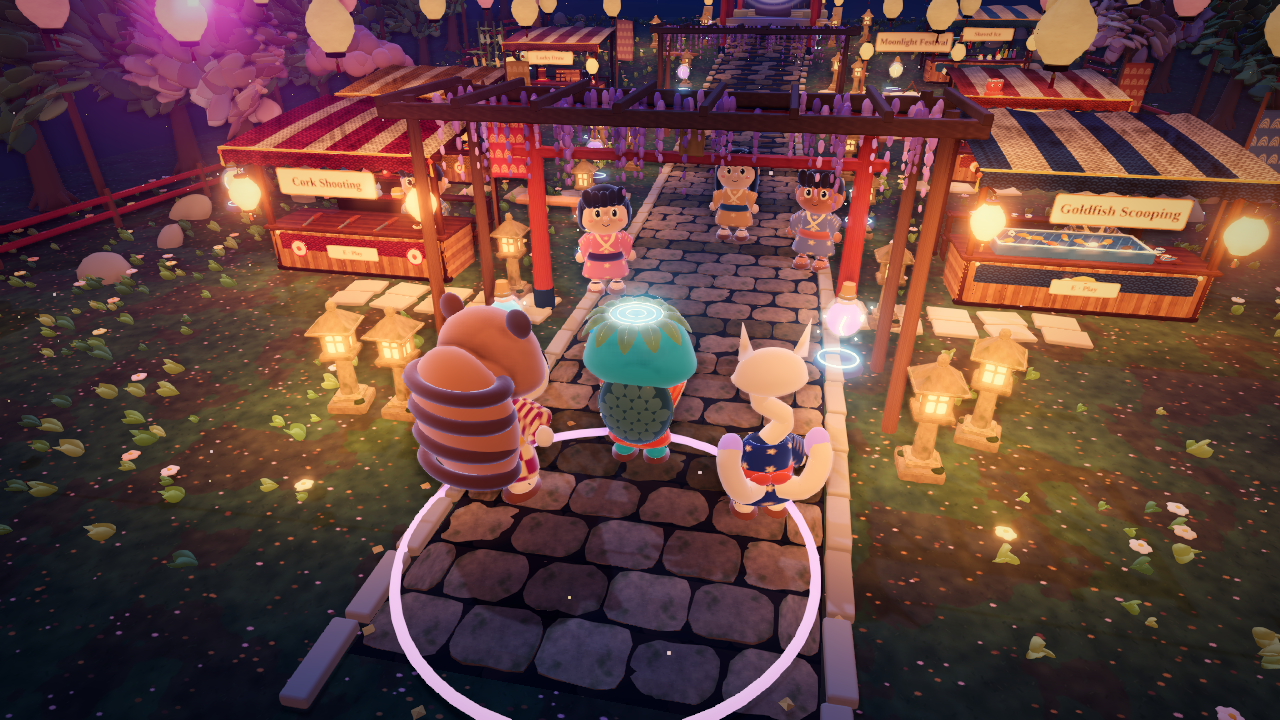
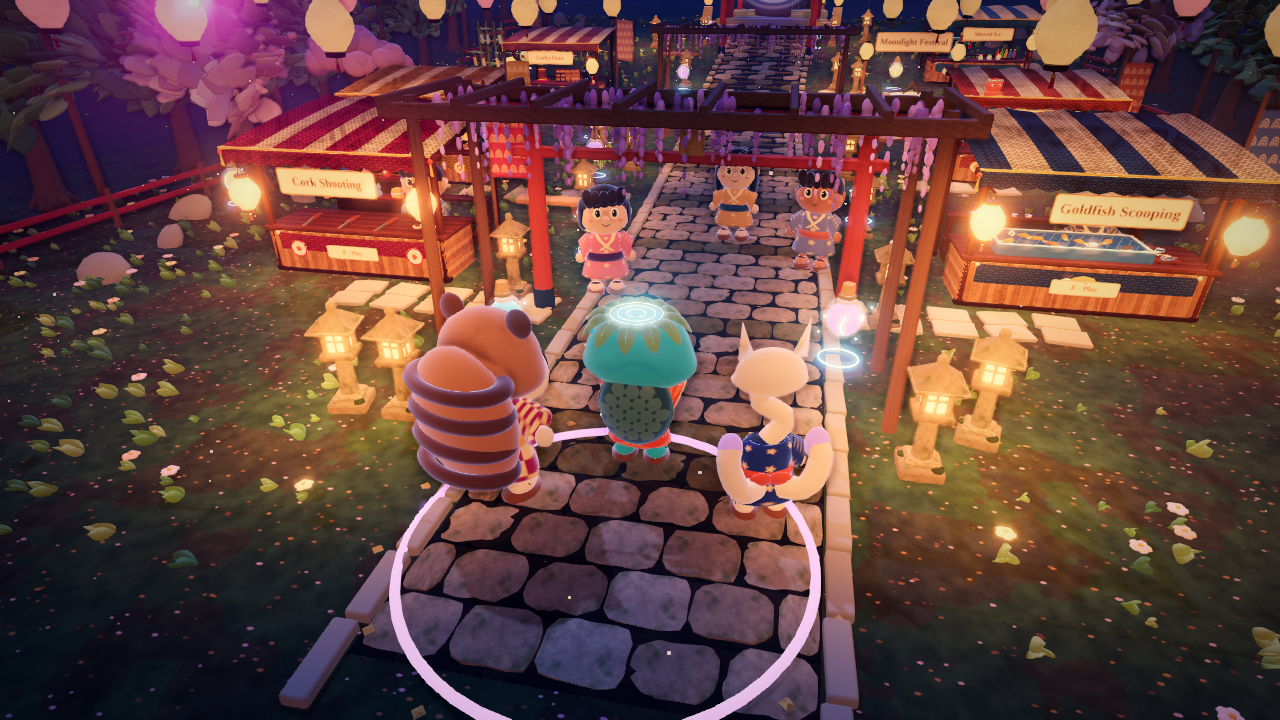
[R04] Captures, manifest, handoff, progress
Claude-Session: https://claude.ai/code/session_01SscmRZkV1RMiFQSw2PXY25

diff --git a/source/v2/environment/kit/family.py b/source/v2/environment/kit/family.py
@@ -350,7 +350,7 @@ def path_tiles():
     from mathutils import Vector
     objs = []
     rng = random.Random(7)
-    tints = ['#e3d6c0', '#d6c8b0', '#eadcc4', '#cfc3ae', '#ddcfb6']
+    tints = ['#fff6e6', '#f3e6d0', '#fffaf0', '#ecdfca', '#f8ecd8']
     for k, name in enumerate('abcd'):  # prop profile allows 4 primitives; runtime adds 180-degree turns and tints
         B = Builder(f'tile_{name}')
         b = bmesh.new()

diff --git a/HANDOFF.md b/HANDOFF.md
@@ -217,3 +217,21 @@
 
 ### 검증
 - check 71 files OK · test 134/134 · integration 5/5 · build OK(491 assets, 52.9 → 17.4 MB) · 브라우저(솔로 연습: 타이틀 → 오프닝 → 플레이, 포션·점프·결계·핑) JS 오류·HTTP 오류 0.
+
+## 2026-11-13 · B방 · R04 축제 환경 키트 (`remaster/r04-festival-kit`)
+### 바뀐 것
+- 축제 키트 GLB 9개(`public/assets/env/v2`): 노점 6종(`env_stall_{shoot,fish,ring,cook,fortune,ice}`), `env_lantern_paper`, `env_lantern_stone`, `env_path_tiles`(돌 4종). 전부 validator PASS. 소스는 `source/v2/environment/`(bpy 스크립트 + 절차 텍스처, 재실행하면 다시 만들어짐).
+- 런타임 `public/festival-kit.mjs`: 노점 6개는 공유 재질(kit_wood·kit_cloth·kit_paint·kit_water)별로 병합되어 4메시, 등불·석등·돌길은 InstancedMesh. GLB 로드가 실패하면 기존 절차 버전이 나온다.
+- 지면 텍스처(`textures/kit_ground.webp`), 돌길 줄눈·연석·주변 지형 색을 밤 톤으로.
+- 페이드 구조물을 재질별로 병합(머리 위 페이드는 그대로 동작).
+- 충돌 박스·좌표·동선(`shared/world.mjs`)은 건드리지 않았다.
+- R02 값 조정: 석등 실제 빛 0(빛 웅덩이만), 종이 등불 5→3, 노점 10→6.
+
+### 다른 방이 알아야 할 것
+- 환경 소품을 더 만들 때: `source/v2/environment/kit/kitlib.py`(게임 좌표, 공유 재질, 정점 색 × 타일 텍스처)와 `stallkit.py`를 쓰고 재질 이름을 `kit_*`로 유지하면 런타임이 자동으로 합친다.
+- `tools/lookdev.py --breakdown --nocast --profile mobile`: 최상위 오브젝트별 드로우콜. 현재 모바일 시작 지점(캐릭터 제외) 721콜 중 환경(world 47 + scenery 37 + kit 19 + garden 8 + sky 5)은 약 116, **포션 15개가 약 322, 상인 6명이 약 249**.
+- 요청(R03/R14): 포션(`renderkit.mjs createPotion`)은 병에 재질 9개·메시 15개 → 재질 공유/인스턴싱 필요. 상인(visitors)은 메시 27~56개씩.
+
+### 다음 할 일
+- 남은 환경(도리이·신사·울타리·계단·바위·나무·배너·야구라)은 절차 버전 그대로. 매니페스트 참고.
+- Higgsfield 결과 CDN이 클라우드 샌드박스에서 막혀 있어(프록시 403) 텍스처는 절차 생성. 사람이 받은 이미지를 `source/v2/environment/kit/textures/`에 같은 이름으로 넣고 build를 다시 돌리면 교체된다.

diff --git a/docs/production/rooms/B-progress.md b/docs/production/rooms/B-progress.md
@@ -1,8 +1,8 @@
 # B방 진행 상황 — 월드 룩(R02 밤 조명 → R04 환경)
 
-- 마지막 갱신: 2026-11-09 (America/Denver)
+- 마지막 갱신: 2026-11-13 (America/Denver)
 - 현재 브리프: **R04** · 브랜치 `remaster/r04-festival-kit`(R02 브랜치 위에 쌓음)
-- 상태: R02 완료(PR #5). **R04 히어로 에셋(금붕어 노점) 사용자 승인 대기**
+- 상태: R02 완료(PR #5, main 통합됨). R04 히어로 승인됨(2026-11-11) → 패밀리 제작 완료, PR 올림
 
 ## R02 끝난 것
 - [x] 클론, `npm ci`, check·test(112)·integration(5) 초록, 브랜치 생성
@@ -37,6 +37,17 @@
 - [x] 키트 라이브러리 `kit/kitlib.py`(게임 좌표 → Blender, 공유 재질 이름, 박스 UV, 정점 색), `kit/stallkit.py`(공용 노점 골격)
 - [x] 히어로 `env_stall_fish`(8,286 삼각형, 재질 4, validator PASS) + 런타임 로더(`KIT_STALLS`, 재질 이름별 공유, kit_water → 물 셰이더, 실패 시 절차 노점)
 - [x] 비교 `captures/r04/compare_fish_hero.jpg`, 근접 `fish_hero_closeup.png`
+
+- [x] 패밀리: 노점 5종(shoot·ring·cook·fortune·ice), 종이 등불, 석등, 돌길 타일 4종 — 전부 validator PASS
+- [x] 런타임 `public/festival-kit.mjs`: 노점 6개를 재질별 1메시로 병합, 등불·석등·타일 인스턴싱, 로드 실패 시 절차 버전
+- [x] 지면: `kit_ground.webp`(이끼·흙·낙엽), 돌길 줄눈은 어두운 흙색, 주변 지형 색 맞춤
+- [x] 페이드 구조물(도리이·등나무 퍼걸러)을 재질별로 병합(페이드 기능 유지) → scenery 드로우콜 103 → 37
+- [x] 드로우콜 분석 도구: `tools/lookdev.py --breakdown --nocast`
+- [x] 3장면 + 히어로 비교 보드, 테스트 추가(135 통과), main(통합 #6) 위로 리베이스
+
+## R04에서 만들지 않은 것(후속)
+- 도리이·신사·울타리·계단·바위·나무·배너·야구라는 기존 절차 버전 그대로(매니페스트에 표시)
+- 포션(15개 × 메시 15개 ≈ 322콜)과 상인·캐릭터가 모바일 드로우콜 대부분 — 환경 밖(R03·R14 요청)
 
 ## R04 결정 사항
 - Higgsfield 이미지는 결과 CDN(cloudfront)이 샌드박스에서 막혀(프록시 403) 저장소로 가져올 수 없음 → 텍스처를 절차적으로 생성(재실행 가능). 0.25 크레딧 1건 사용, `provenance.json`에 기록
